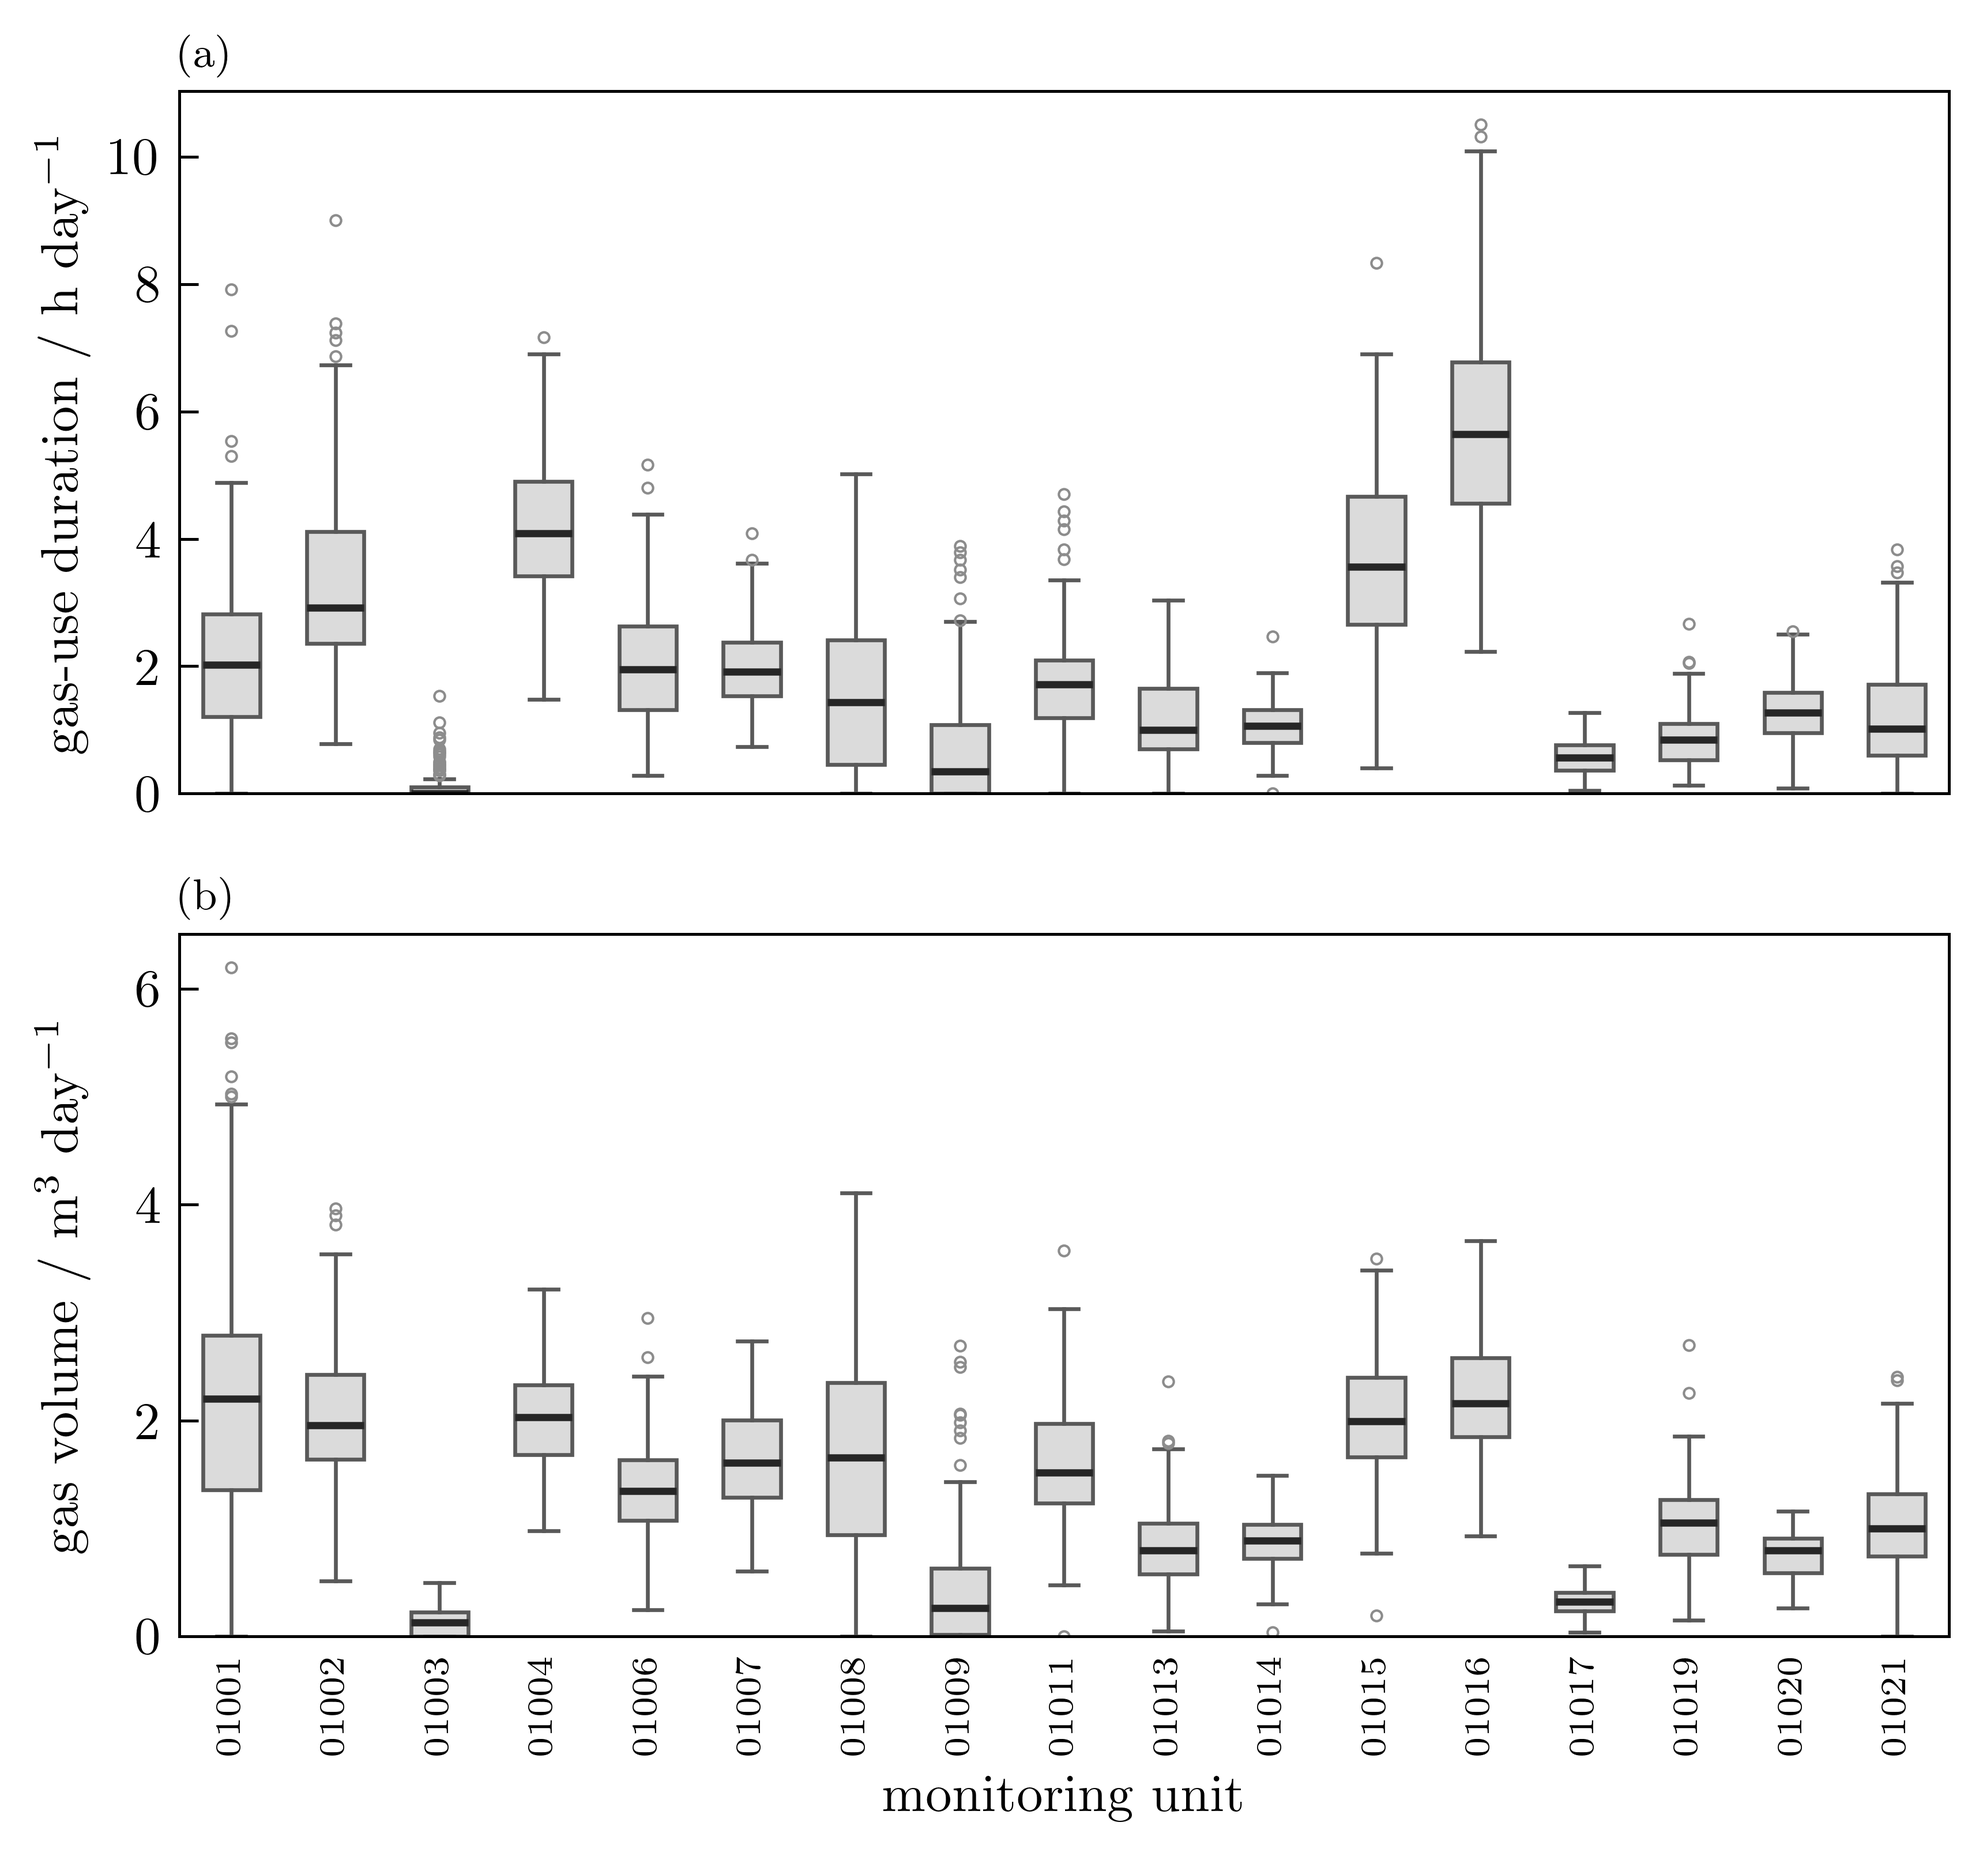
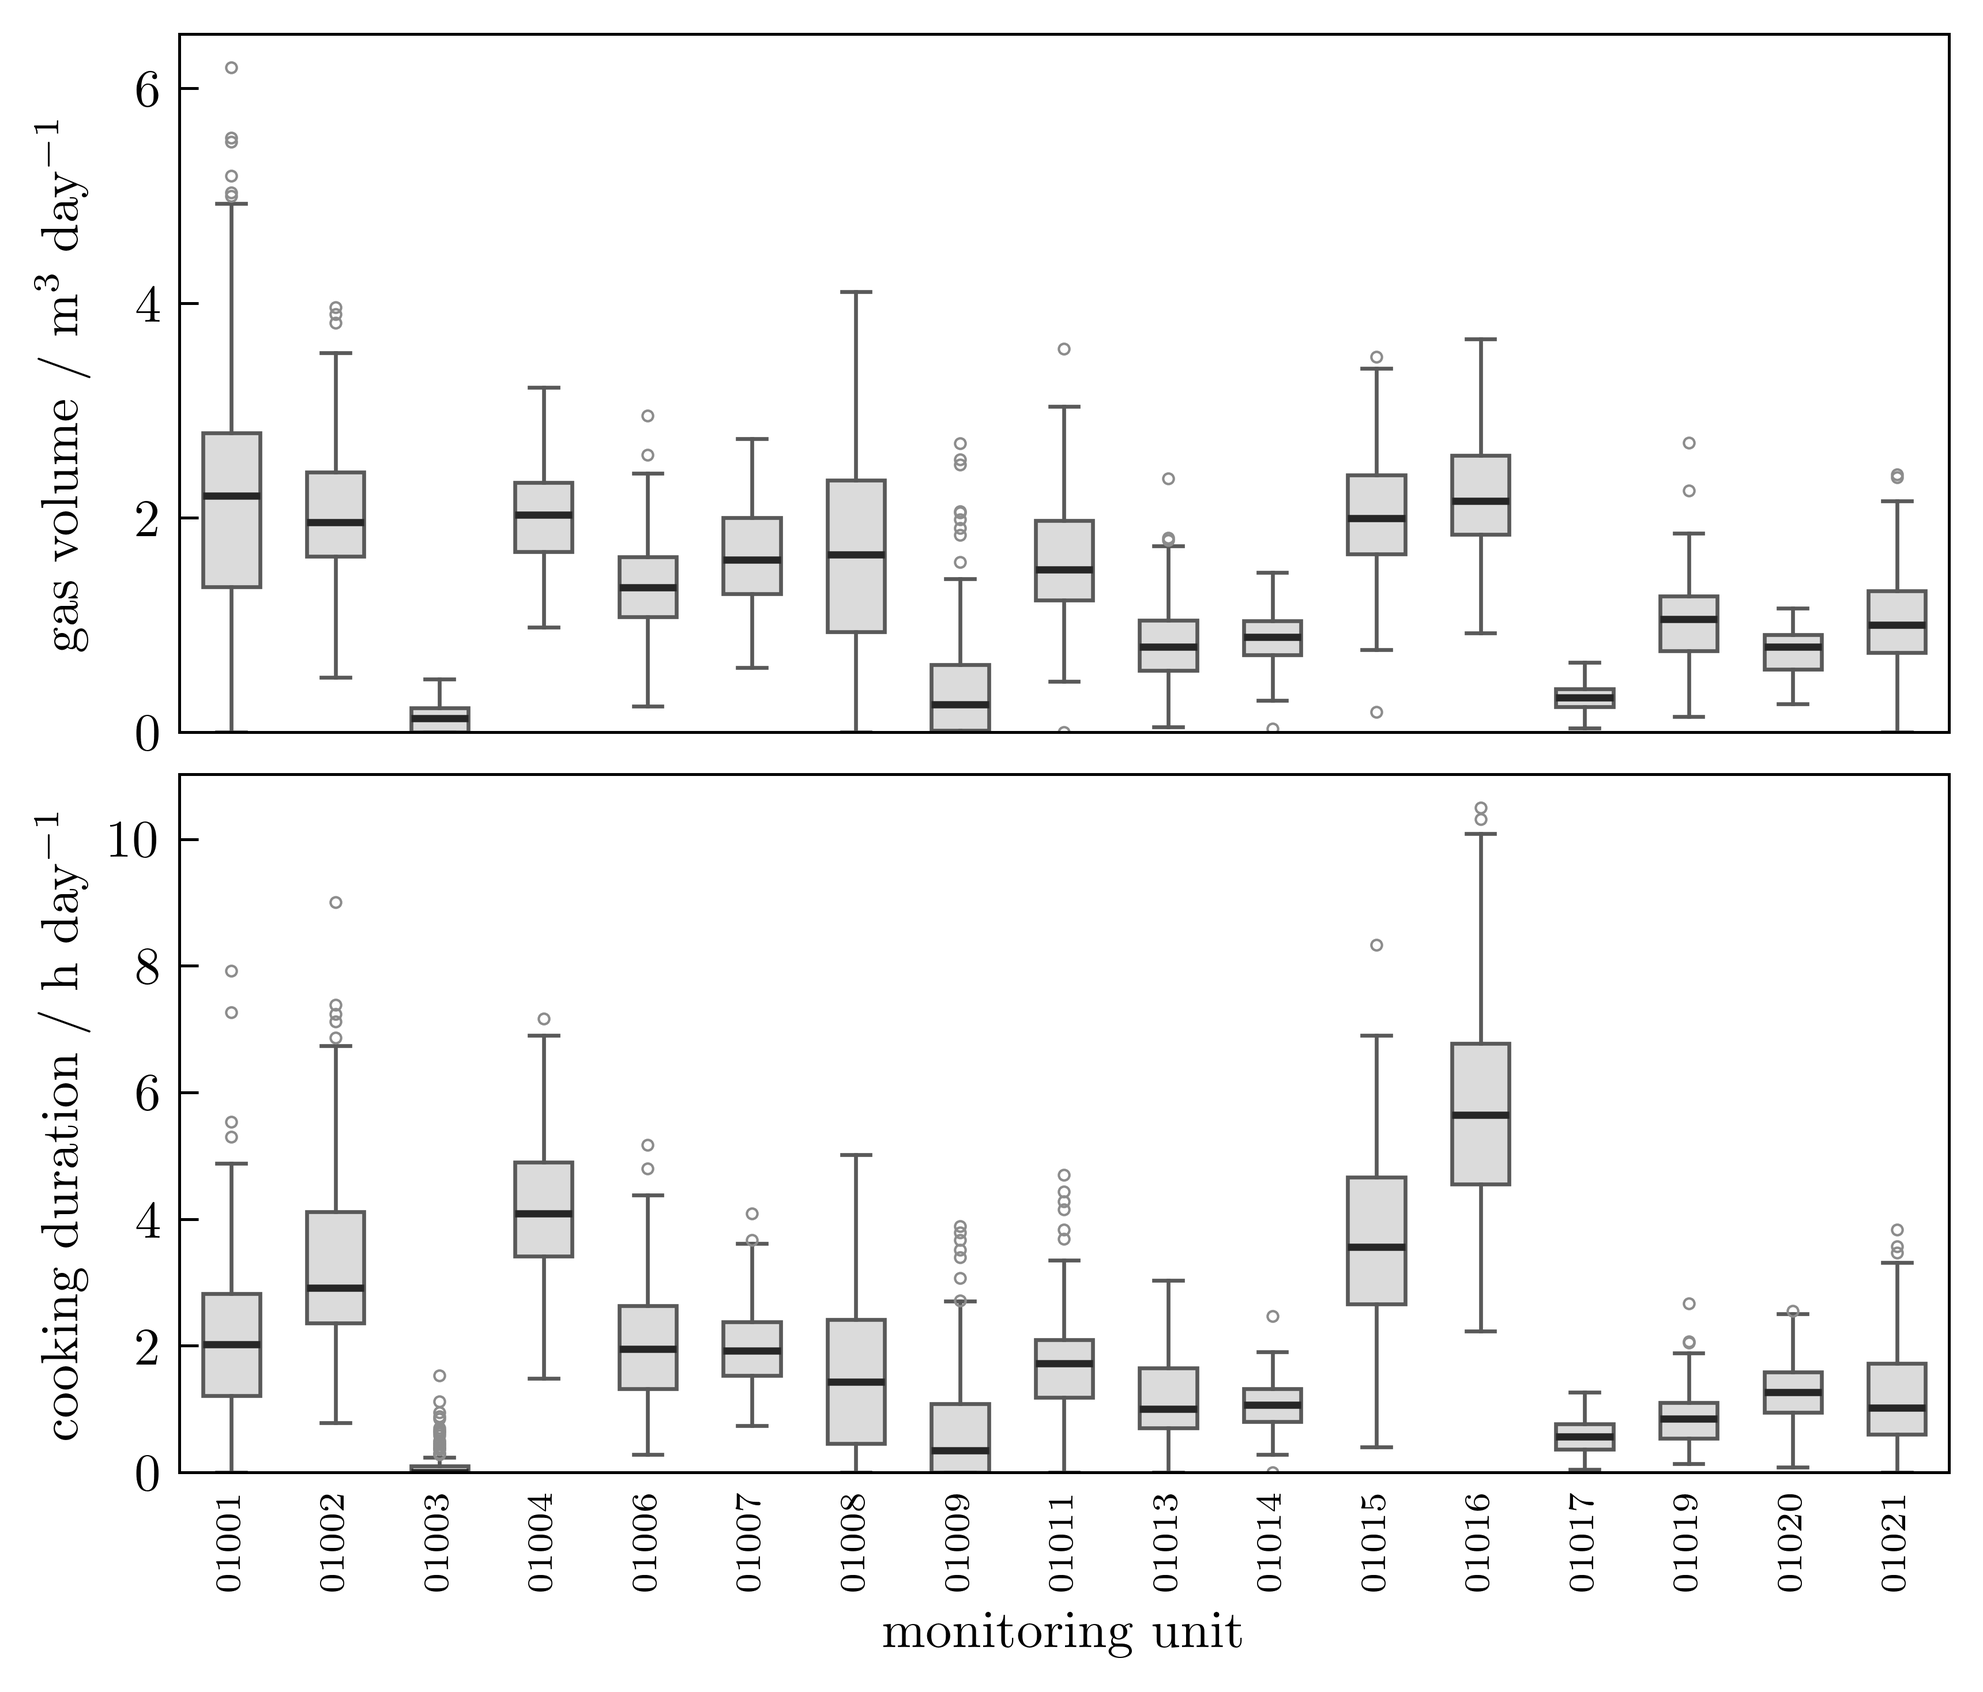
Figure 3: volume on top, cooking duration below, no panel letters, panels close together

diff --git a/make_figures.py b/make_figures.py
@@ -279,27 +279,27 @@ def _boxes(ax, data, labels):
 def fig_use():
     """Figure 3: daily gas use per usable household on valid days.
 
-    (a) Duration: minutes per day in sustained measuring-state runs with corrected
-    flow at or above the 2 L/min deadband (validity.py), as hours; the flow is an
-    on/off test here. (b) Volume: the dataset's gap-filled, zero-calibrated volume
-    (``daily_volumes``). Units in ascending number, as in Figure 1.
+    Top: volume, the dataset's gap-filled, zero-calibrated volume
+    (``daily_volumes``). Bottom: cooking duration, the minutes per day in
+    sustained measuring-state runs with corrected flow at or above the 2 L/min
+    deadband (validity.py), as hours; the flow is an on/off test here. The two
+    panels share the unit axis; units in ascending number, as in Figure 1.
     """
     from validity import classify
     df = classify()
     df = df[~df["unit"].isin([u[3:] for u in FAILED]) & df["cls"].str.startswith("valid")]
     vol = daily_volumes()
     order = unit_order(df["unit"].unique())
-    duration = [df.loc[df["unit"] == u, "use_min"].to_numpy() / 60 for u in order]
     volume = [vol.loc[vol["unit"] == u, "volume_L"].to_numpy() / 1000 for u in order]
-    fig, (ax_a, ax_b) = plt.subplots(2, 1, figsize=(6.6, 5.8), sharex=True)
-    _boxes(ax_a, duration, order)
-    _boxes(ax_b, volume, order)
-    ax_a.set_ylabel(r"gas-use duration / h day$^{-1}$")
-    ax_b.set_ylabel(r"gas volume / m$^3$ day$^{-1}$")
-    ax_b.set_xlabel(r"monitoring unit")
-    for ax, lab in ((ax_a, "(a)"), (ax_b, "(b)")):
-        ax.text(0.0, 1.02, lab, transform=ax.transAxes, ha="left", va="bottom", fontsize=9)
-    fig.align_ylabels((ax_a, ax_b))
+    duration = [df.loc[df["unit"] == u, "use_min"].to_numpy() / 60 for u in order]
+    fig, (ax_v, ax_d) = plt.subplots(2, 1, figsize=(6.6, 5.4), sharex=True,
+                                     gridspec_kw={"hspace": 0.06})
+    _boxes(ax_v, volume, order)
+    _boxes(ax_d, duration, order)
+    ax_v.set_ylabel(r"gas volume / m$^3$ day$^{-1}$")
+    ax_d.set_ylabel(r"cooking duration / h day$^{-1}$")
+    ax_d.set_xlabel(r"monitoring unit")
+    fig.align_ylabels((ax_v, ax_d))
     fig.savefig(OUT / "Figure_3.png")
     fig.savefig(OUT / "Figure_3.pdf")
     plt.close(fig)

diff --git a/make_stats.py b/make_stats.py
@@ -172,12 +172,12 @@ def main():
     # -- gas use (Figure 3): sustained, flowing minutes per valid day, per usable unit
     vd = usable[usable["cls"].str.startswith("valid")]
     med_h = vd.groupby("unit")["use_min"].median() / 60
-    print(f"[Feasibility, Fig. 3a] median daily gas-use duration per unit {med_h.min():.1f}-{med_h.max():.1f} h "
+    print(f"[Feasibility, Fig. 3 bottom] median daily cooking duration per unit {med_h.min():.1f}-{med_h.max():.1f} h "
           f"(median across units {med_h.median():.1f} h)")
     # -- gas volume (Figure 4): litres per valid day from the zero-calibrated flow
     vol = daily_volumes()
     med_v = vol.groupby("unit")["volume_L"].median() / 1000
-    print(f"[Feasibility, Fig. 3b] median daily gas volume per unit {med_v.min():.2f}-{med_v.max():.2f} m3 "
+    print(f"[Feasibility, Fig. 3 top] median daily gas volume per unit {med_v.min():.2f}-{med_v.max():.2f} m3 "
           f"(median across units {med_v.median():.2f} m3, {len(vol)} valid unit-days)")
     measured = filled = 0.0
     for u in kept:
@@ -185,7 +185,7 @@ def main():
         c = c[c["timestamp"] <= PILOT_END]
         measured += c.loc[c["flow_zero_cal"] >= NO_FLOW_MAX, "flow_zero_cal"].sum()
         filled += c["gap_fill_L"].sum()
-    print(f"[Feasibility, Fig. 3b] gas filled into unmeasured time next to use (dataset gap_fill_L): "
+    print(f"[Feasibility, Fig. 3 top] gas filled into unmeasured time next to use (dataset gap_fill_L): "
           f"{filled / (measured + filled):.1%} of the total")
     sus_min, flow_min, exp_min = 0, 0, 0
     for u in kept:

diff --git a/README.md b/README.md
@@ -22,7 +22,7 @@ household's normalised, shape-only use rhythm, not the cohort analysis.
 
 | path | what |
 |---|---|
-| `make_figures.py` | generator for `Figure_1` (data validity), `Figure_2` (use rhythm), `Figure_3` (daily gas use per household: (a) duration, (b) volume) and the supplementary `fig_coverage` |
+| `make_figures.py` | generator for `Figure_1` (data validity), `Figure_2` (use rhythm), `Figure_3` (daily gas use per household: volume on top, cooking duration below) and the supplementary `fig_coverage` |
 | `validity.py` | the four-check data-validity classification behind Figure 1 and its quoted counts |
 | `make_stats.py` | reproduces every number the paper quotes that is not read off a figure |
 | `test_volumes.py` | tests for the daily-volume and unmeasured-gas calculations behind Figure 4 (`python3 -m pytest`) |
@@ -57,10 +57,10 @@ household's normalised, shape-only use rhythm, not the cohort analysis.
   and painted warm grey, distinct from the completeness ramp, so "no data" cannot
   read as "low completeness".
 - **`Figure_3`** (`fig_use`): daily gas use per usable household on valid days.
-  Panel (a) is the gas-use duration (see `validity.py`); panel (b) is the daily
-  gas volume, from the dataset's `flow_zero_cal` column (the flow with each unit's
-  zero-flow offset removed; see the dataset's `docs/field_correction.md` §7).
-  Uses the dataset's volume definition: one-minute measuring rows at or above
+  The top panel is the daily gas volume; the bottom panel is the cooking duration
+  (see `validity.py`). The volume comes from the dataset's `flow_zero_cal` column
+  (the flow with each unit's zero-flow offset removed; see the dataset's
+  `docs/field_correction.md` §7) and uses the dataset's volume definition: one-minute measuring rows at or above
   0.5 L/min (the dataset's no-flow gate) plus `gap_fill_L`, the unmeasured gas
   the dataset fills in next to rows in use, summed per UTC day, the same day key
   `validity.py` uses. The interiors of gaps longer than one sleep cycle are not
